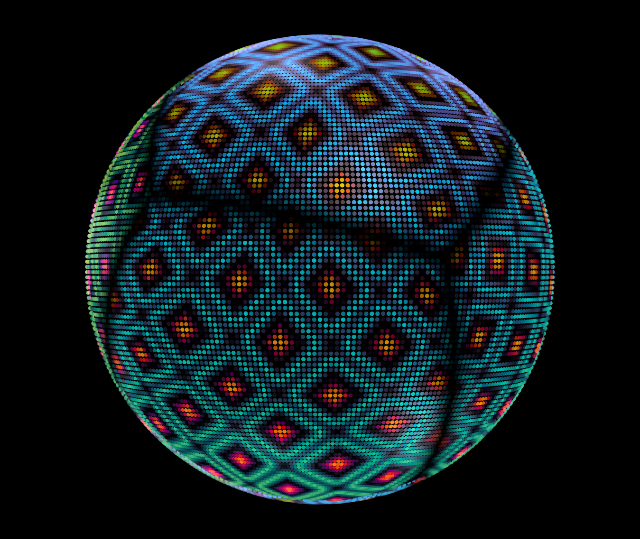
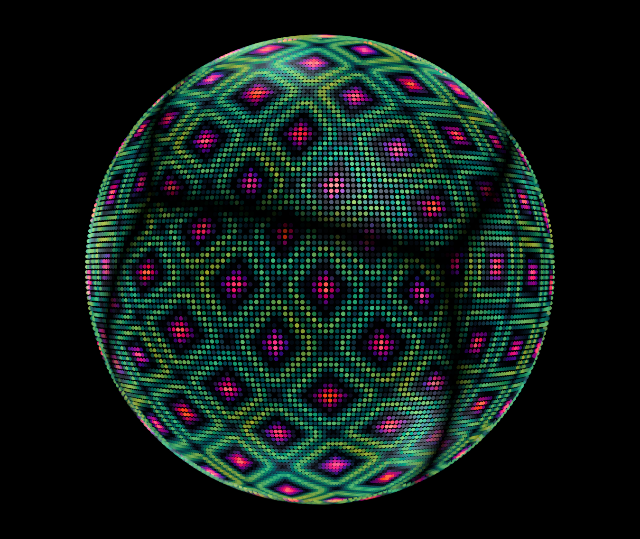
effects: promote Involution onto the periodic affine lattice

Changed region(s): [[0.125, 0.0594, 0.875, 0.9499]]

diff --git a/effects/Involution.h b/effects/Involution.h
@@ -37,7 +37,7 @@ struct InvolutionSpec : Pullback::Spec {
           Pullback::ProjectionKind::S2,
           Pullback::ProjectionProvider<B, Pullback::AtlasProjectionParams>>>,
       Pullback::Stage::Warp<typename Pullback::WarpPolicyFor<
-          Pullback::ExplicitAffineParams, B, "outer_warp", true>::Type>,
+          Pullback::PeriodicAffineParams, B, "outer_warp", true>::Type>,
       Pullback::Stage::Sample<
           typename Pullback::SourcePolicyFor<
               Pullback::Source::AuthoredLatticeSampleParams, B>::Type,
@@ -77,9 +77,9 @@ public:
   /// Canonical machine ID; equals the shader document's effect_id.
   static constexpr std::string_view EFFECT_ID = EFFECT_IDENTITY.machine_id;
   /// SHA-256 hex of the shader document's parameter descriptor.
[2 lines of base64/hex data omitted]
   /// SHA-256 hex of the shader document's preset bank.
[2 lines of base64/hex data omitted]
   /// Preset identities, indexed by preset number.
   static constexpr std::array<std::string_view, 1> PRESET_IDS{
       "jewel-melt"
@@ -164,7 +164,7 @@ public:
     value.template get<"modulate">().modulation.sine.frequency = 13.741177f;
     value.template get<"modulate">().modulation.sine.offset = 0.0f;
     value.template get<"modulate">().modulation.sine.speed = 0.0f;
-    value.template get<"modulation">().modulation.mechanic.amount = 0.21176471f;
+    value.template get<"modulation">().modulation.mechanic.amount = 0.83882546f;
     value.template get<"modulation">().modulation.enabled = true;
     value.template get<"modulation">().modulation.evaluation = Pattern::Evaluation::DIRECT;
     value.template get<"modulation">().modulation.mechanic.kind = ColorModulation::Mechanic::HUE_ROTATION;
@@ -183,14 +183,14 @@ public:
     value.template get<"source">().lattice_shape_blend = 1.0f;
     value.template get<"source">().lattice_softness = 0.5f;
     value.template get<"source">().weight_mode = 1;
-    value.template get<"outer_warp">().lattice_period = 1.0f;
-    value.template get<"outer_warp">().rotation_rate = 1.5153565f;
+    value.template get<"outer_warp">().lattice_period = 0.25245383f;
+    value.template get<"outer_warp">().rotation_rate = 1.0005351f;
     value.template get<"outer_warp">().scale_x = 1.0f;
     value.template get<"outer_warp">().scale_y = 1.0f;
     value.template get<"outer_warp">().shear = 0.0f;
-    value.template get<"outer_warp">().speed = 0.008588235f;
-    value.template get<"outer_warp">().translation_x = 1.5294118f;
-    value.template get<"outer_warp">().translation_y = 1.5294118f;
+    value.template get<"outer_warp">().speed = 0.013007277f;
+    value.template get<"outer_warp">().translation_x = 4.0f;
+    value.template get<"outer_warp">().translation_y = 4.0f;
     return value;
   }
   // clang-format on

diff --git a/tests/composed_chain_fixture.h b/tests/composed_chain_fixture.h
@@ -142,8 +142,9 @@ void verify_export(size_t preset, int channel_tolerance,
             mutable_state<In::Op::FieldPhaseState>(program, index).phase =
                 own.resources.template get<Resource::KEY>().phase;
       });
-    } else if (id == "warp.affine.v3" || id == "warp.wave-shear.v2" ||
-               id == "warp.vortex.v2" || id == "warp.mirror-tile.v2") {
+    } else if (id == "warp.affine.v3" || id == "warp.affine-periodic.v1" ||
+               id == "warp.wave-shear.v2" || id == "warp.vortex.v2" ||
+               id == "warp.mirror-tile.v2") {
       const auto key = std::string_view(op.instance) == "warp2" ? "inner_warp"
                        : std::string_view(op.instance) == "warp1" ||
                                std::string_view(op.instance) == "warp"
@@ -154,7 +155,7 @@ void verify_export(size_t preset, int channel_tolerance,
           if (Resource::KEY.view() != key)
             return;
           const auto &clock = own.resources.template get<Resource::KEY>();
-          if (id == "warp.affine.v3") {
+          if (id == "warp.affine.v3" || id == "warp.affine-periodic.v1") {
             if constexpr (requires { clock.rotation; })
               mutable_state<In::Op::AffineClockState>(program, index) = {
                   clock.phase, clock.rotation};
